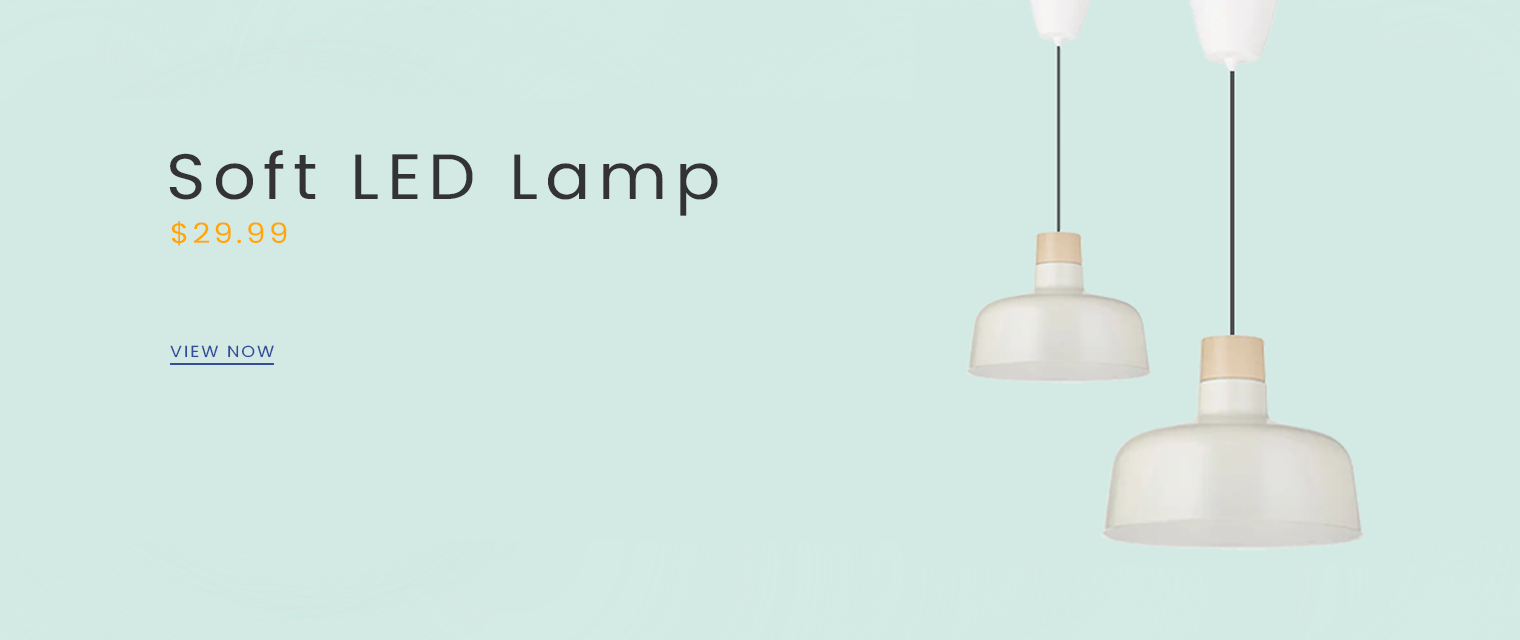
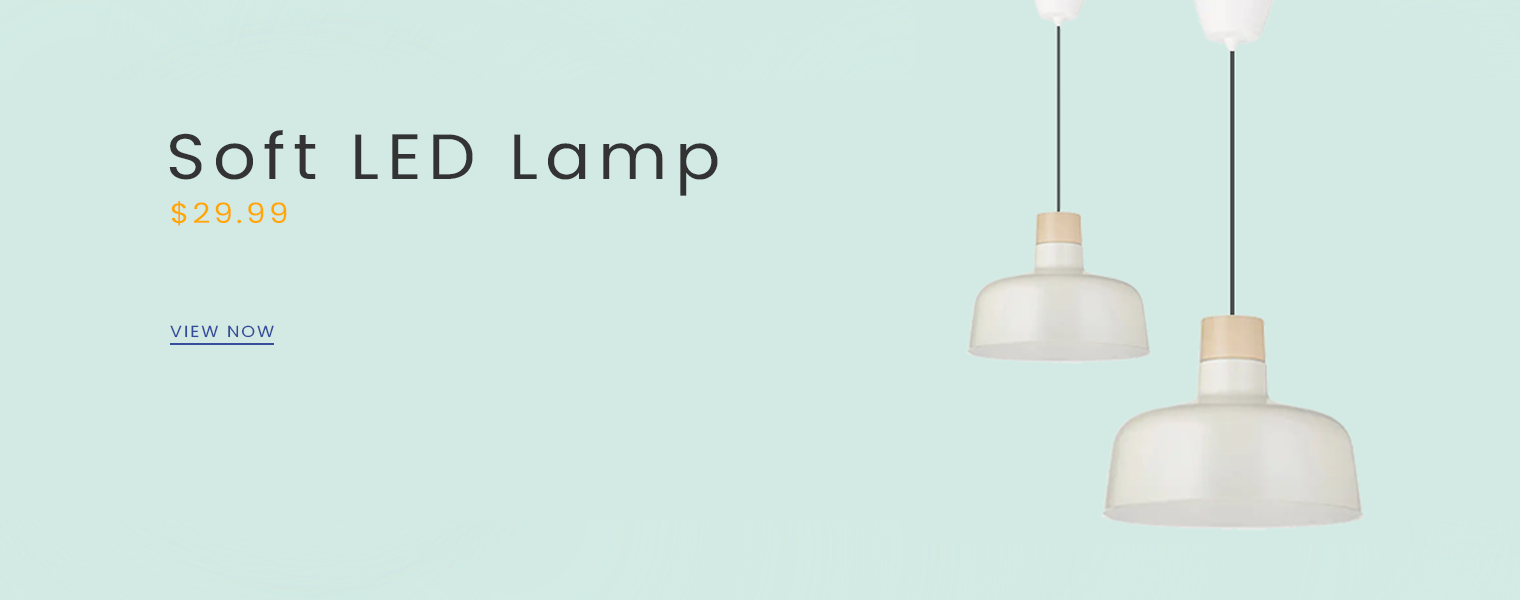
Added new slider images with new height

diff --git a/src/components/ImageSlideshow.tsx b/src/components/ImageSlideshow.tsx
@@ -100,7 +100,7 @@ const ImageSlideshow = () => {
             <Image
               src={SLIDES[SLIDES.length - 1].img}
               width={1520}
-              height={640}
+              height={600}
               alt={SLIDES[SLIDES.length - 1].name}
             />
           </a>
@@ -110,7 +110,7 @@ const ImageSlideshow = () => {
         {SLIDES.map(({ name, category, productId, img }) => (
           <Link href={`/${category}/${productId}`} key={category}>
             <a>
-              <Image src={img} width={1520} height={640} alt={name} />
+              <Image src={img} width={1520} height={600} alt={name} />
             </a>
           </Link>
         ))}
@@ -121,7 +121,7 @@ const ImageSlideshow = () => {
             <Image
               src={SLIDES[0].img}
               width={1520}
-              height={640}
+              height={600}
               alt={SLIDES[0].name}
             />
           </a>
